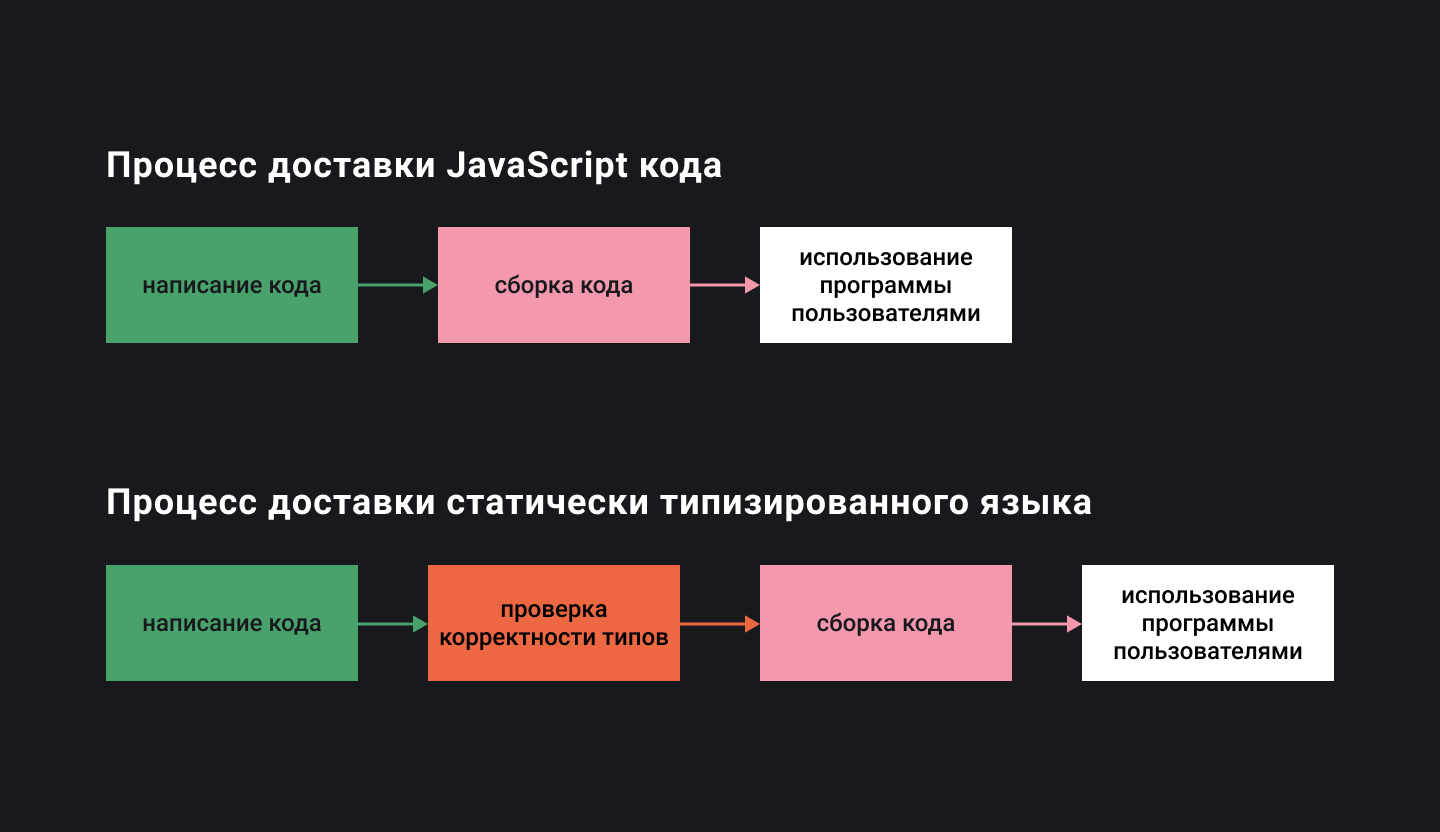
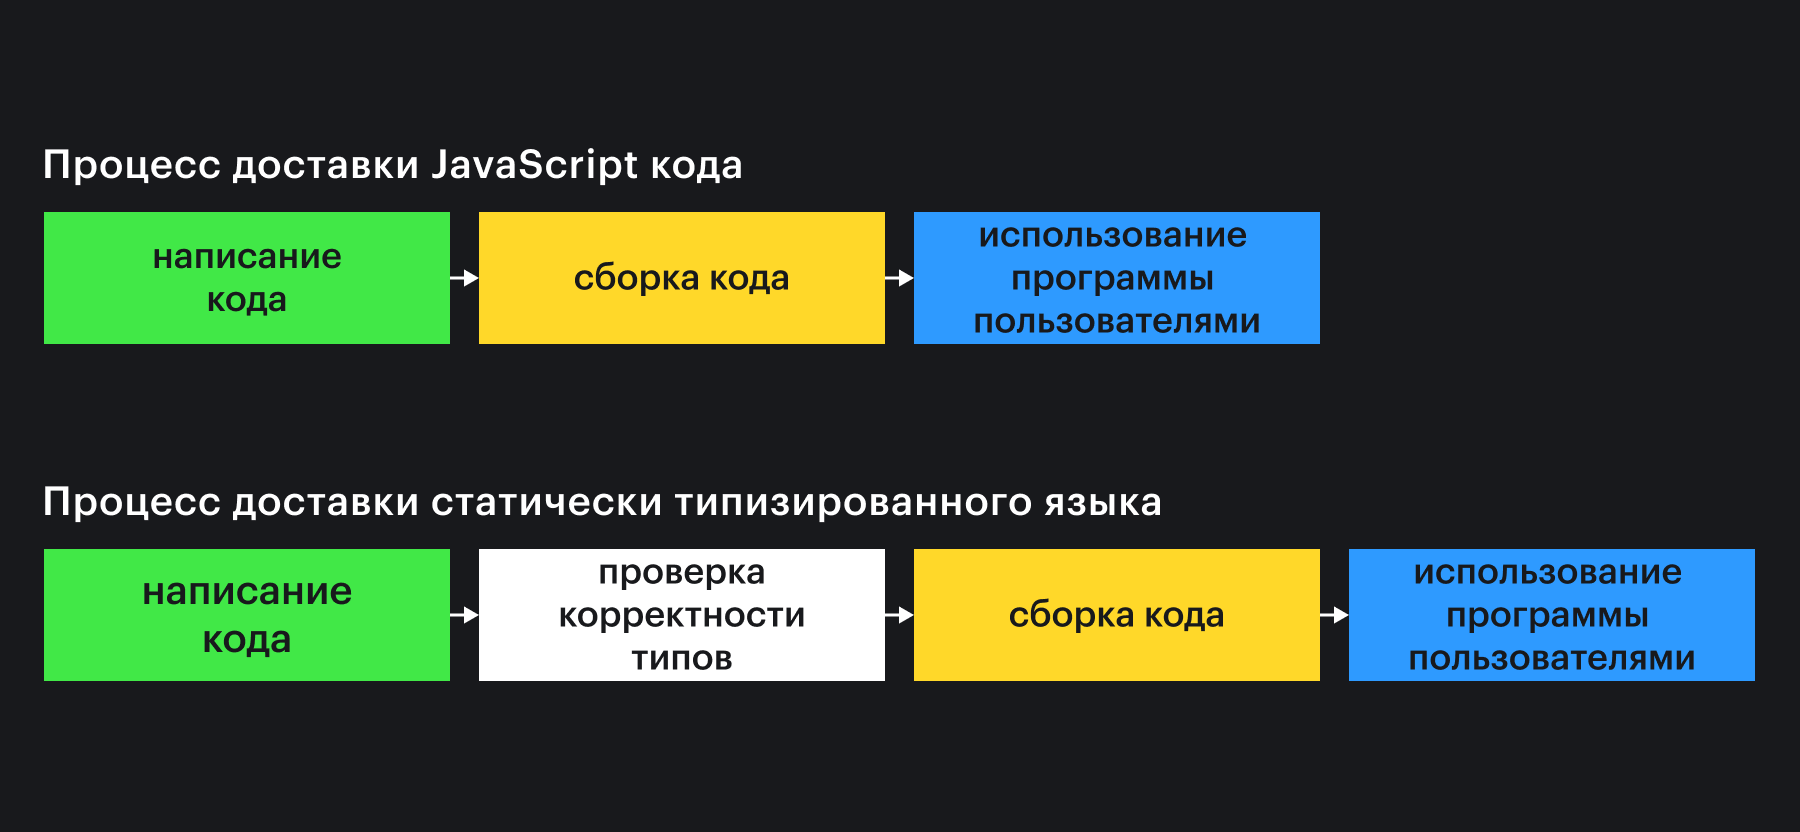
Обновляет схему и добавляет новую в tools/static-types

diff --git a/tools/static-types/index.md b/tools/static-types/index.md
@@ -63,6 +63,8 @@ age = "34"
 
 Важно заметить, что ошибки несовпадения типов будут заметны уже на стадии написания кода. То есть, не нужно запускать программу, чтобы узнать, что в коде допущены ошибки с типизацией.
 
+![Сравнение процесса доставки в JS и TS](images/compare.png)
+
 Проверка корректности типов — это разновидность [статического анализа](/tools/static-analysis/). Его можно провести, не запуская код.
 
 Примерно таким же образом можно типизировать параметры функции:
